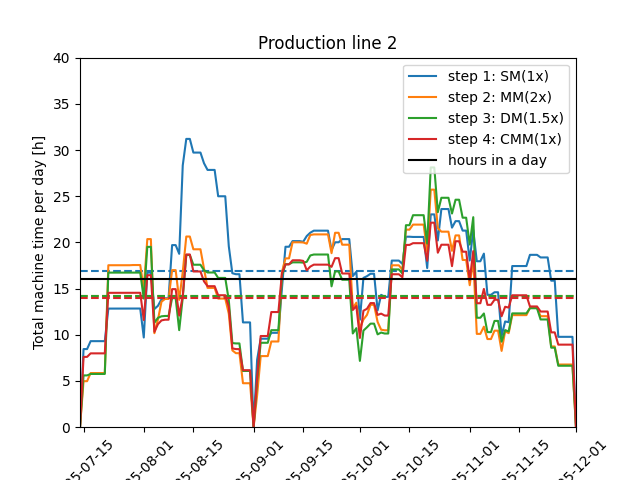
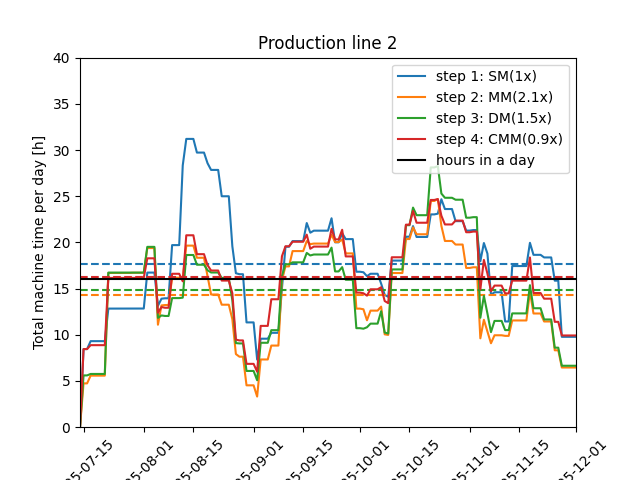
number of machines done

Changed region(s): [[0.125, 0.125, 0.9062, 0.875], [0.3125, 0.3125, 0.3438, 0.4062], [0.2812, 0.2812, 0.3125, 0.3125]]

diff --git a/Job's Scripts/get_daily_data.py b/Job's Scripts/get_daily_data.py
@@ -36,16 +36,16 @@ class Planning:
 planning = Planning()
 
 planning.machine_quantity = [
-    [2,2,2,2,1,2], # route 0 / SM,TM,MM,GM,CMM,A
-    [2,0.75,0.5,1], # route 1 / MC,GM,CMM,A
-    [1,2,1.5,1], # route 2 / SM,MM,DM,CMM
-    [1,2,1,0.75,0.75], # route 3 / SM,MC,GM,CMM,A
-    [0.5,0.25,0.5,0.5,0.5,0.5,0.25,0.25], # route 4 / SM,TM,MM,TM,GM,DM,CMM,A
-    [0.5,0.1,0.25,0.5,0.2,0.25,0.2], # route 5 / TM,CMM,TM,GM,CMM,MM,CMM
-    [0.33], # route 6 / A
+    [2,2,2.3,2,1,2], # route 0 / SM,TM,MM,GM,CMM,A
+    [2,0.75,0.5,1.1], # route 1 / MC,GM,CMM,A
+    [1,2.1,1.5,0.9], # route 2 / SM,MM,DM,CMM
+    [1,2,1,0.75,1], # route 3 / SM,MC,GM,CMM,A
+    [0.6,0.3,0.5,0.5,0.5,0.6,0.25,0.5], # route 4 / SM,TM,MM,TM,GM,DM,CMM,A
+    [0.4,0.1,0.2,0.5,0.2,0.3,0.2], # route 5 / TM,CMM,TM,GM,CMM,MM,CMM
+    [0.4], # route 6 / A
     [0.1,0.2,0.3,0.25,0.1], # route 7 / SM,TM,MM,GM,CMM
     [0.1,0.1,0.1], # route 8 / SM,TM,MM
-    [0.2,0.4,0.4] # route 9 / SM,MM,DM
+    [0.2,0.5,0.4] # route 9 / SM,MM,DM
     ]
 
 flat_order_dates = []
@@ -82,7 +82,7 @@ for i, rn in enumerate(ordered_part.route_number):
 
 for i, day in enumerate(pd.date_range(start=start_date, end=end_date)):
     active = df_clean[
-        (df_clean["order_date"] < day) & (df_clean["delivery_date"] > day)
+        (df_clean["order_date"] < day) & (df_clean["delivery_date"] >= day)
     ]
 
     grouped = active.groupby("part_id")["quantity"].sum()
@@ -102,15 +102,14 @@ for i, day in enumerate(pd.date_range(start=start_date, end=end_date)):
         # add setup time ONCE
         for l in range(len(ordered_part.setup_time[idx])):
             mq = planning.machine_quantity[route_number][l]
-            planning.route_time[i][route_number][l] += ordered_part.setup_time[idx][l]/mq
+            planning.route_time[i][route_number][l] += ordered_part.setup_time[idx][l]#/mq
 
         # add production time
         for j in range(len(ordered_part.avg_idle_time[idx])):
             mq = planning.machine_quantity[route_number][j]
             machine_time = (
-                        (ordered_part.avg_idle_time[idx][j] + ordered_part.process_time[idx][j])
-                        * planning.part_quantities[i][p]
-                        / mq
+                    (ordered_part.avg_idle_time[idx][j] + ordered_part.process_time[idx][j])
+                    * planning.part_quantities[i][p]
             )
             planning.route_time[i][route_number][j] += machine_time
 
@@ -120,7 +119,8 @@ for j in unique_route_numbers:
 
     for k, machine in enumerate(part_routes[j]):
         y = [
-            planning.route_time[i][j][k] for i in range(len(planning.day))
+            planning.route_time[i][j][k] / planning.machine_quantity[j][k]
+            for i in range(len(planning.day))
         ]
 
         line, = plt.plot(

diff --git a/Job's Scripts/OEE.py b/Job's Scripts/OEE.py
@@ -19,8 +19,13 @@ class Available_machines:
         self.total_time = shifts * hours * days
 
         self.old_machine_quantity = dict(zip(self.machine_id, [5, 4, 5, 5, 2, 4, 4, 2]))
-        self.new_machine_quantity = dict(zip(self.machine_id, [6, 3, 7, 3, 4, 5, 3, 5]))
-                                                            # [1.1, -0.8, 1.55, -1, 1.6, 0, -1.1, 0.67]
+        #self.new_machine_quantity = dict(zip(self.machine_id, [5, 4, 6, 4, 3, 5, 4, 5])) to match planning
+        #self.new_machine_quantity = dict(zip(self.machine_id, [6, 3, 7, 3, 4, 5, 3, 5])) to match OEE calc
+        # [1.1, -0.8, 1.55, -1, 1.6, 0, -1.1, 0.67]
+
+        self.new_machine_quantity = dict(zip(self.machine_id, [5, 4, 7, 4, 3, 5, 4, 5])) #CMM and TM have very high setup times so one machine more
+                                                            # [0, 0, 0, 0, 0, 0, 0, 0]
+
         self.process_time_old = dict.fromkeys(self.machine_id, 0)
         self.process_time_new = dict.fromkeys(self.machine_id, 0)
 
@@ -50,3 +55,4 @@ for j in range(len(ordered_part.process_time)):
 available_machines.calc_new_values1()
 print(available_machines.OEE_old)
 print(available_machines.OEE_new)
+print(available_machines.new_machine_quantity)
